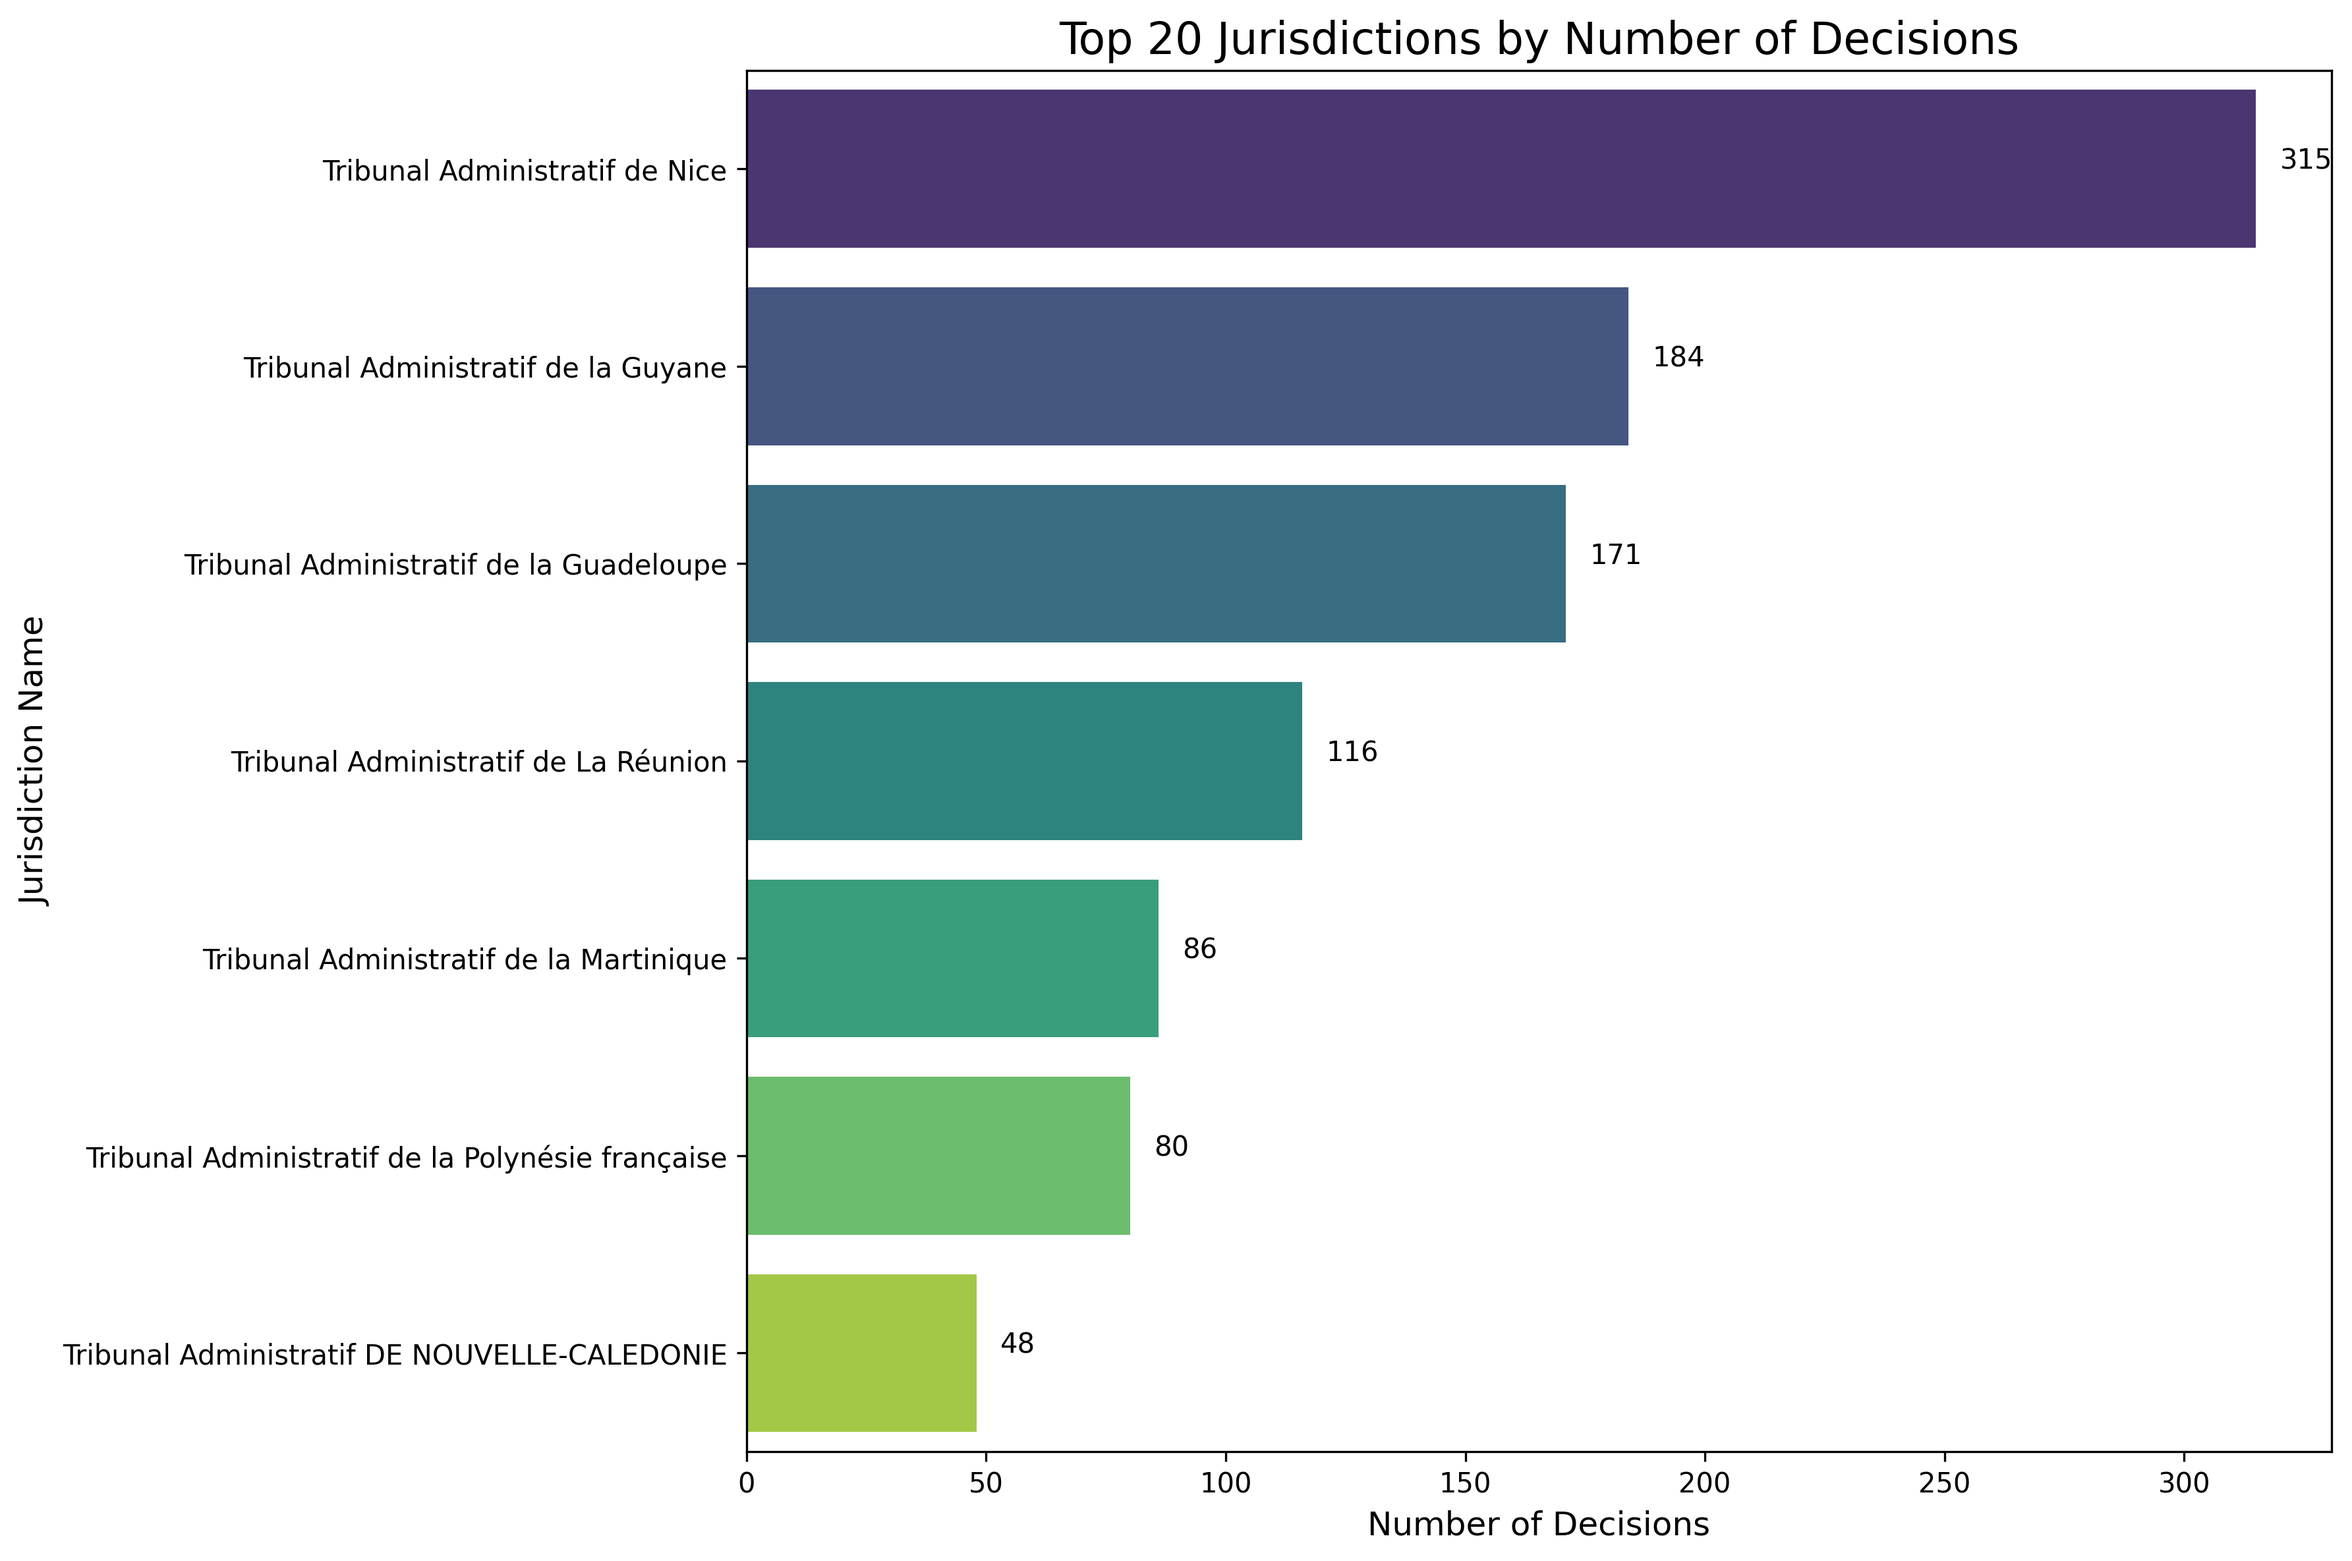
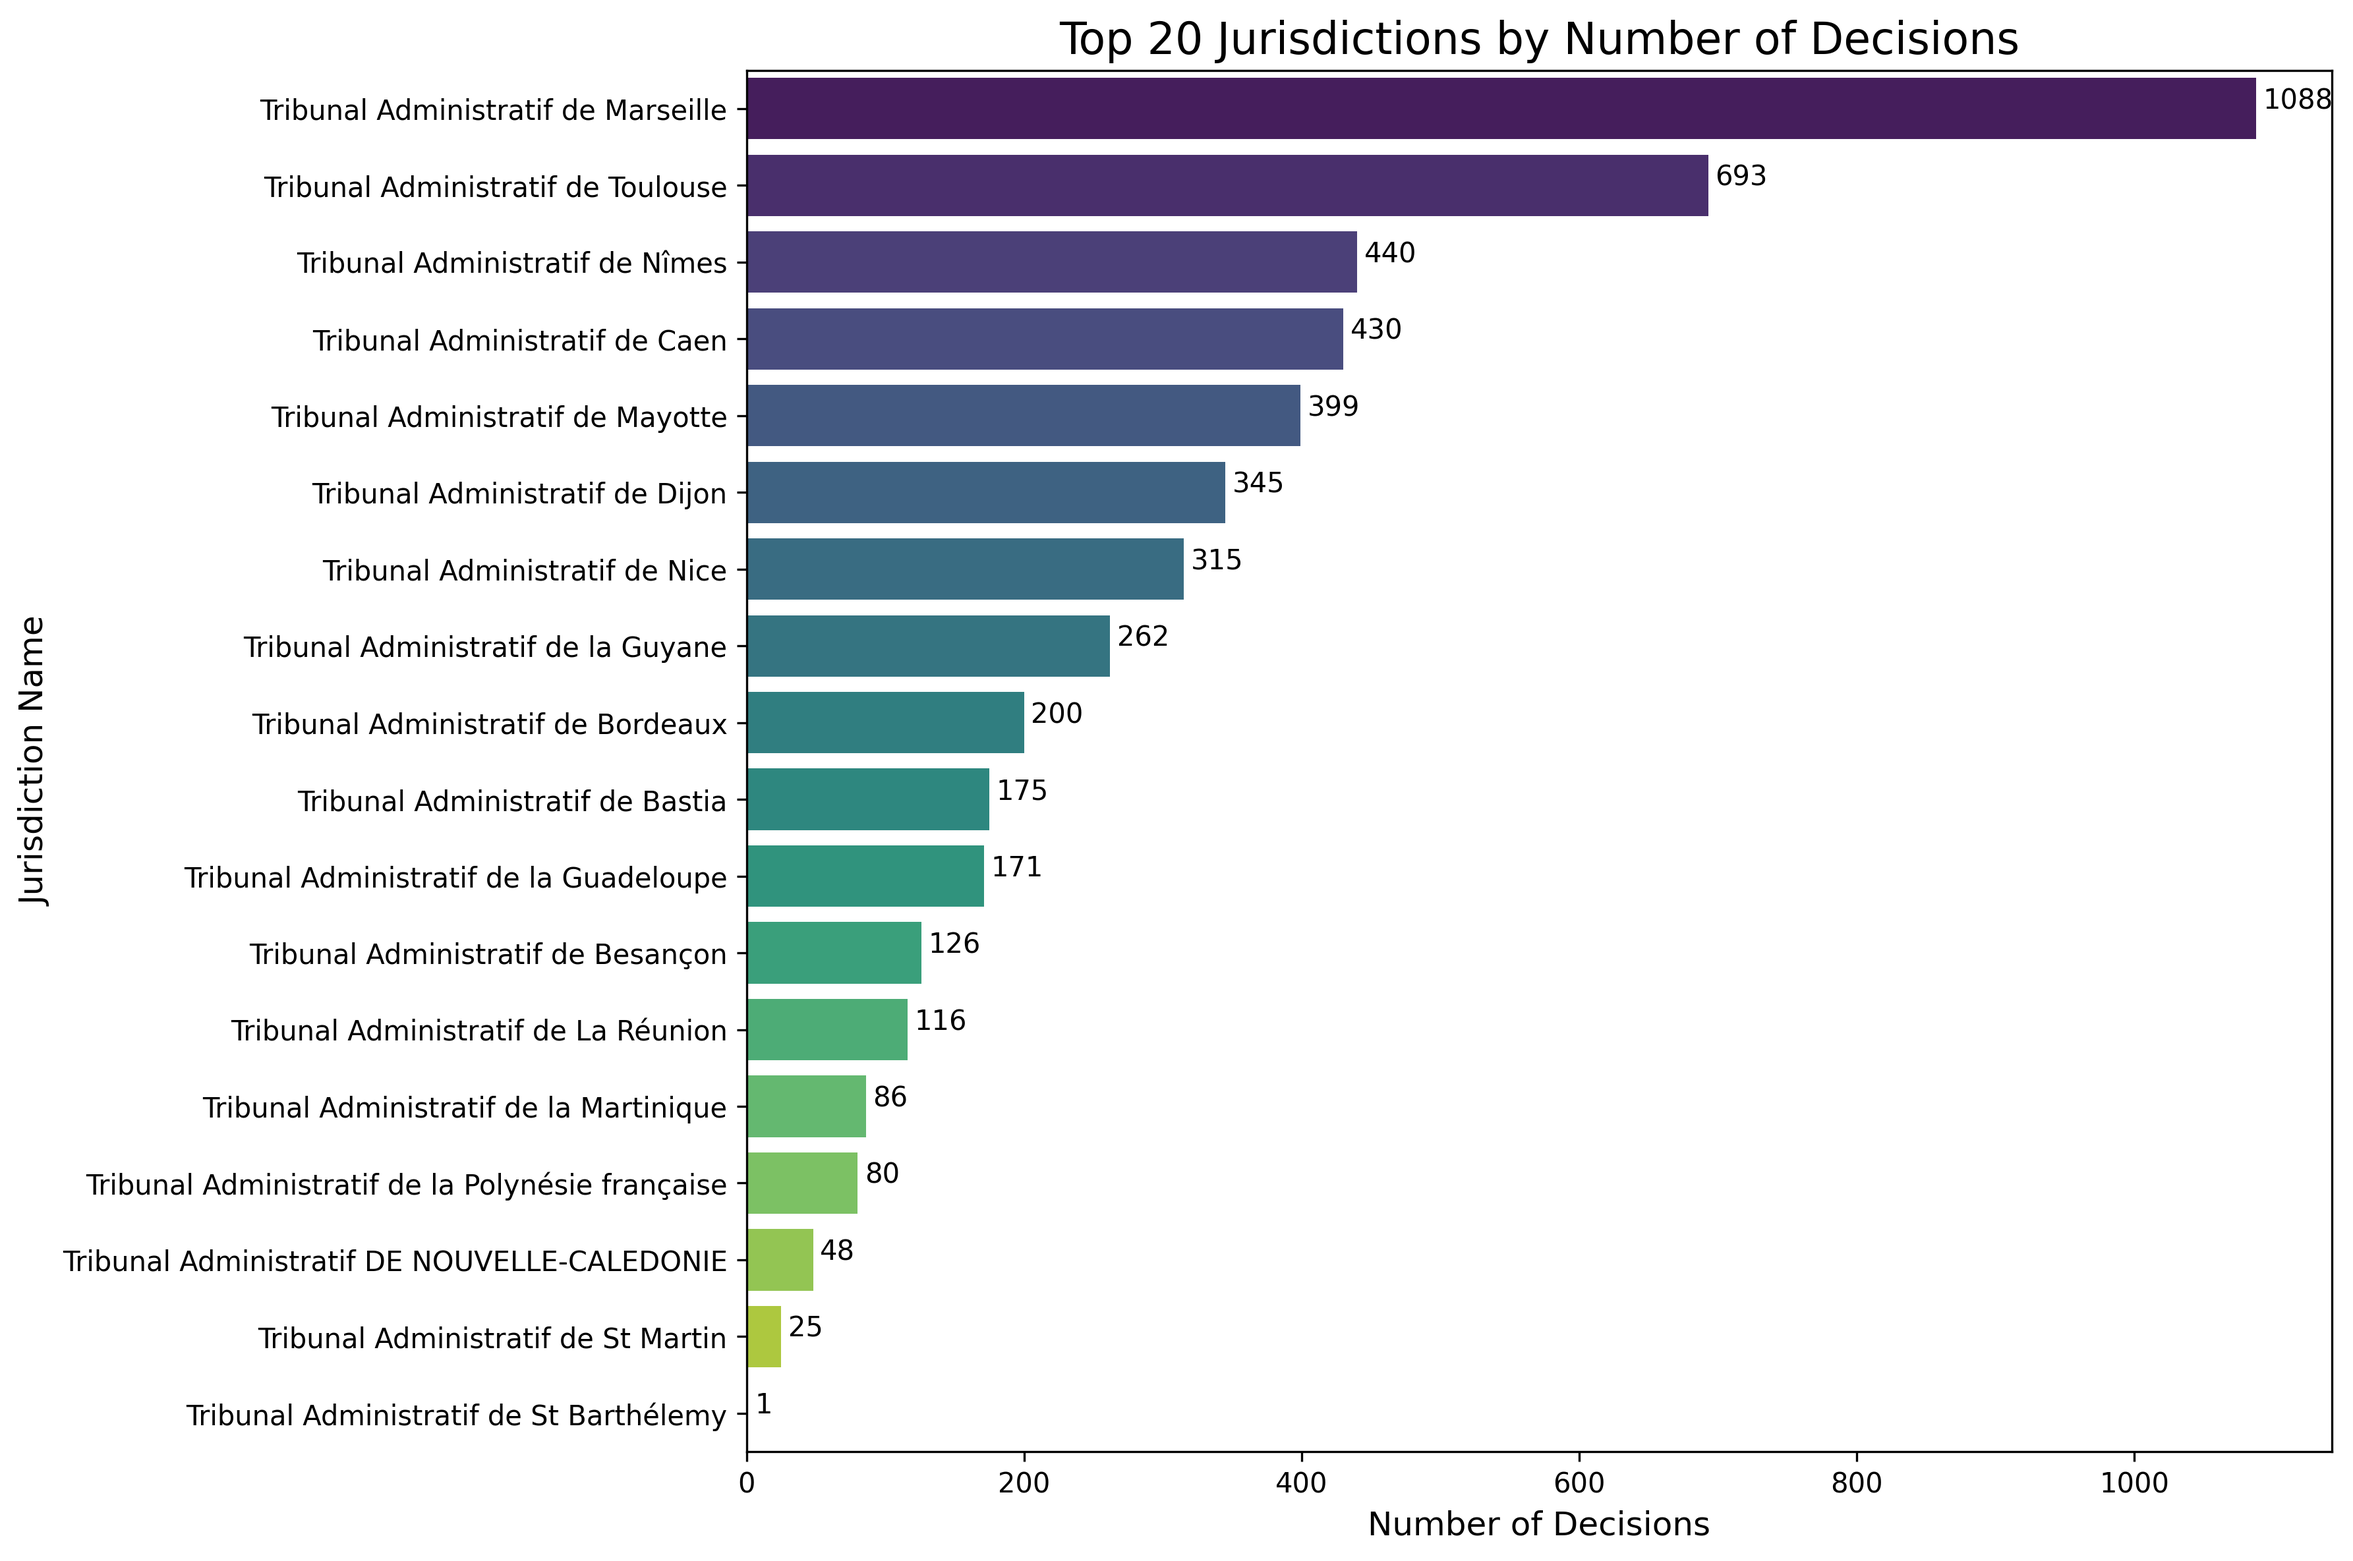
Fix for dataframe

diff --git a/web/templates/dashboard.html b/web/templates/dashboard.html
@@ -51,10 +51,10 @@
                 </tr>
             </thead>
             <tbody>
-                {% for jurisdiction, count in jurisdiction_dist.items() %}
+                {% for _, row in jurisdiction_dist.iterrows() %}
                 <tr>
-                    <td>{{ jurisdiction }}</td>
-                    <td>{{ count }}</td>
+                    <td>{{ row['Nom_Juridiction'] }}</td>
+                    <td>{{ row['count'] }}</td>
                 </tr>
                 {% endfor %}
             </tbody>
@@ -71,10 +71,10 @@
                 </tr>
             </thead>
             <tbody>
-                {% for solution, count in solution_dist.items() %}
+                {% for _, row in solution_dist.iterrows() %}
                 <tr>
-                    <td>{{ solution }}</td>
-                    <td>{{ count }}</td>
+                    <td>{{ row['Solution'] }}</td>
+                    <td>{{ row['count'] }}</td>
                 </tr>
                 {% endfor %}
             </tbody>

diff --git a/web/server/router.py b/web/server/router.py
@@ -72,8 +72,8 @@ async def read_root(request: Request):
             "request": request,
             "title": "French Court Decisions Analytics",
             "summary": summary,
-            "jurisdiction_dist": jurisdiction_dist,
-            "solution_dist": solution_dist,
+            "jurisdiction_dist": jurisdiction_dist.head(10),
+            "solution_dist": solution_dist.head(10),
             "jurisdiction_plot": "/plots/jurisdiction_distribution.png",
             "solution_plot": "/plots/solution_distribution.png"
         }
